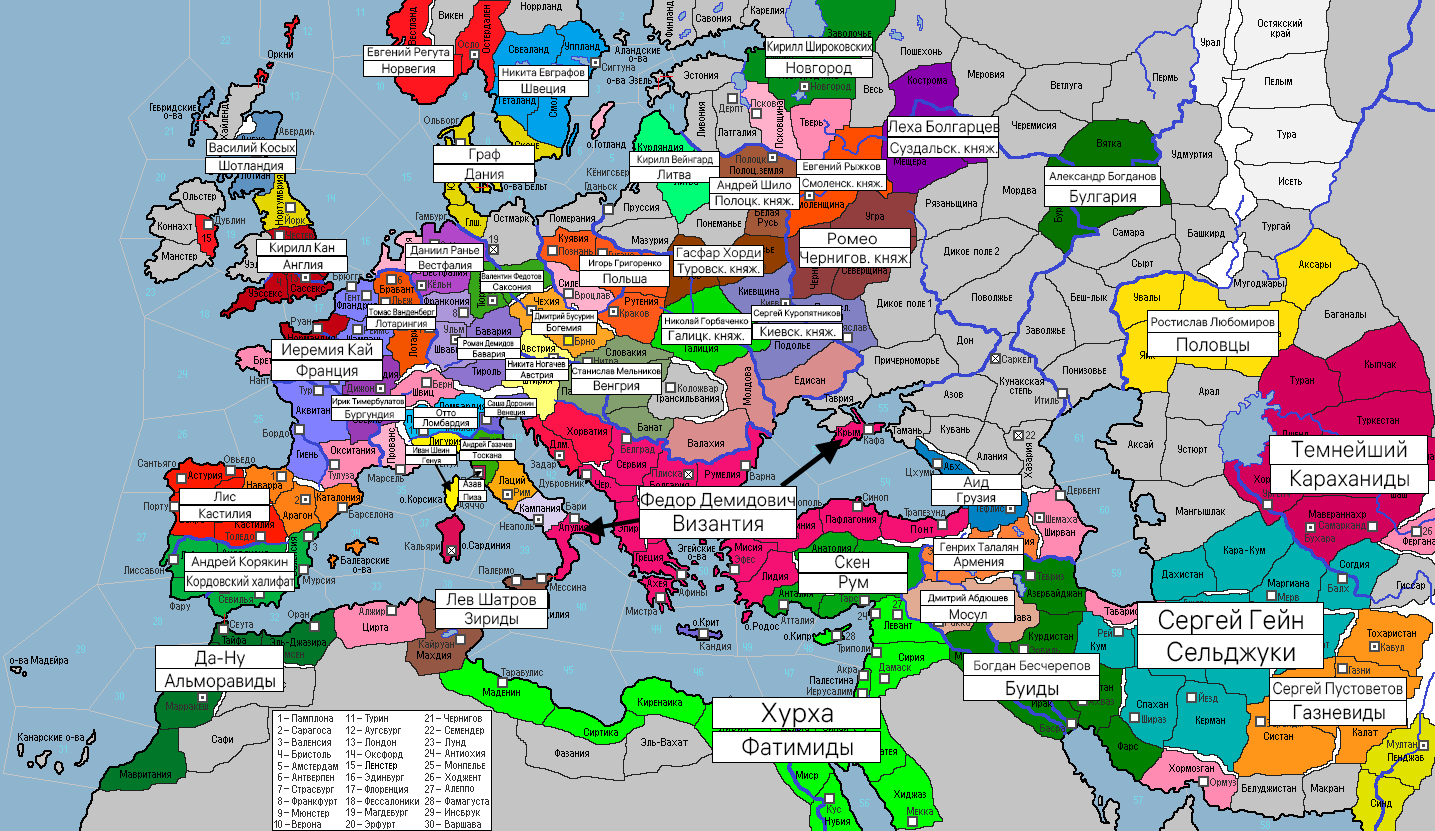
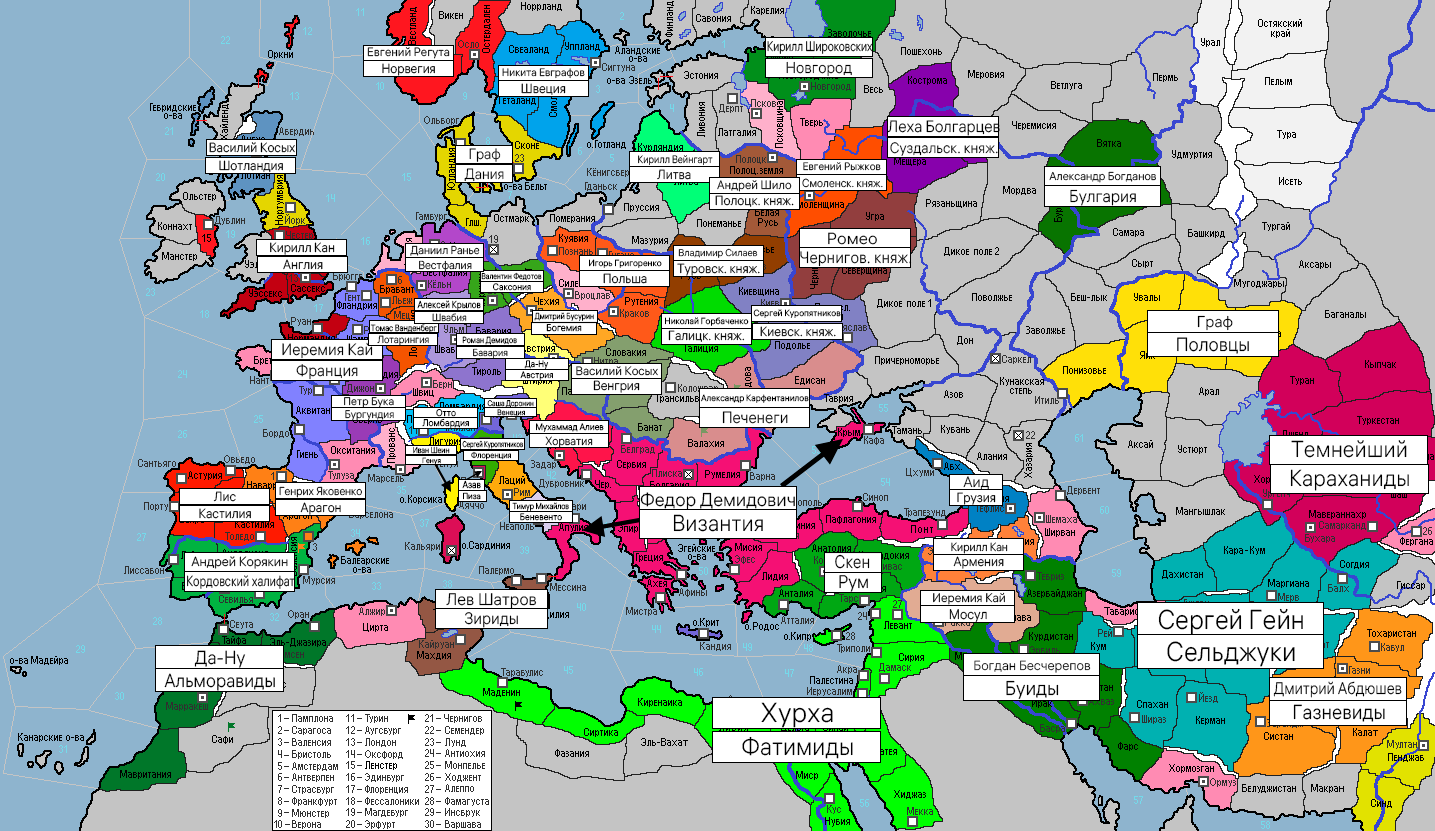
2 ход полностью + карта. Обновлена карта игроков

diff --git a/turns/turn02.html b/turns/turn02.html
@@ -65,16 +65,17 @@
         · С целью защиты Саксонии император ведёт войска против напавших на неё славян, но … терпит там обидное поражение. На размокшем под дождём холме лошадь императора ломает ногу, сбросив седока. Император Готтфрид I попадает в плен к славянам.</p>
         · Вслед за недавним набегом половцев в Туран вторгаются дикие кыпчаки, неся ужас разорений.</p>
         · Вслед за Данией евреи перебираются и в г.Осло.</p>
-        · </p>
-        · </p>
-        · </p>
-        · </p>
-        · </p>
-        · </p>
-        · </p>
-        · </p>
-        · </p>
-        · </p>
+        · Литовцы совершают поход в Ливонию, где разбивают войско дикарей-ливов.</p>
+        · Великий князь киевский Святослав II созвал совет, на котором объявил о походе против печенегов. Не все подданные поддержали князя, напомнив ему какой ценой был достигнут прежний мир с кочевниками. Перепалка, однако, не нарушила решимость Святослава II, который в 1005 году наносит удар по Едисану, где разбивает остатки войск печенегов.</p>
+        · Огузы Рума наносят поражение войскам армянского царя Гагика III под Эрзурумом и захватывают провинцию с городом.</p>
+        · На смену умершему князю Олегу I Туровскому приходит его малолетний сын Святополк.</p>
+        · Имам Язид, появившийся при дворе фатимидского султана Альбассина I, убеждает его отказаться от шиизма и принять суннизм. Язида после этого забивают камнями до смерти разъяренные фанатики-шииты.</p>
+        · Кочевники, в прошлом беспокоившие границы Черниговского княжества, в этот раз решили нанести удар по Суздальским землям. Однако, в Мещерских болотах, дружина князя Святополка II наносит поражение непрошенным гостям.</p>
+        · Атенольф Ландольфид – новый граф Беневенто.</p>
+        · Войска шотландского герцога Майла-Колума I проигрывают сражение горцам Хайленда при попытке захвата этих территорий.</p>
+        · Польский король Мешко III Старый оставляет этот мир. Трон переходит к Одону Пясту.</p>
+        · Альморавиды при малике Салих-шахе испытывают культурный и экономический подъем: в стране освоили выпуск бумаги и начали производство ковров.</p>
+        · Вратислав I Благоразумный принял управление Богемией в свои руки и первым решением снёс церковь, у стен которой был захоронен его отец.</p>
         
 
     </div>

diff --git a/log.html b/log.html
@@ -19,8 +19,9 @@
     </header>
     <div class="container">
         <p>История изменений:</p>
+        <p>30.04.2023: Обновлена карта игроков</p>
         <p>30.04.2023: Новый список игроков</p>
-        <p>30.04.2023: Добавлены 1 и 2(еще считается) ход.</p>
+        <p>30.04.2023: Добавлены 1 и 2 ход.</p>
         <p>24.04.2023: Правила: ТМ дает 0,5 н/о целевой стране.</p>
         <p>24.04.2023: Правила: Наемники имеют постоянную силу.</p>
         <p>24.04.2023: Добавлена таблица с бонусами юнитов.</p>

diff --git a/maps.html b/maps.html
@@ -34,7 +34,7 @@
         <a href="turn01/logi01.html">Логи  |</a>
         <a href="turn01/stat01.html">Статистика</a> -->
     </p>
-    <p>Устарело, актуальный список игроков можно посмотреть <a href="players.html">тут</a></p>
+    <!-- <p>Устарело, актуальный список игроков можно посмотреть <a href="players.html">тут</a></p> -->
 
     <div class="map">
         <img id="map1" src="maps/igroki.png" alt="" srcset="">

diff --git a/players.html b/players.html
@@ -21,7 +21,6 @@
 
     <div>
         <p></p>
-        <p>Альтернативный список игроков, в виде таблицы</p> 
         <p></p>
         <table  border="1">
             <tr>
